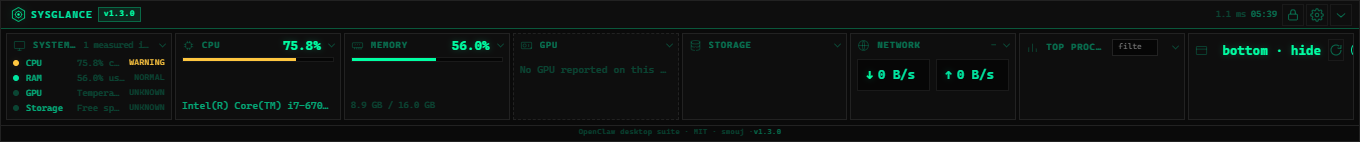
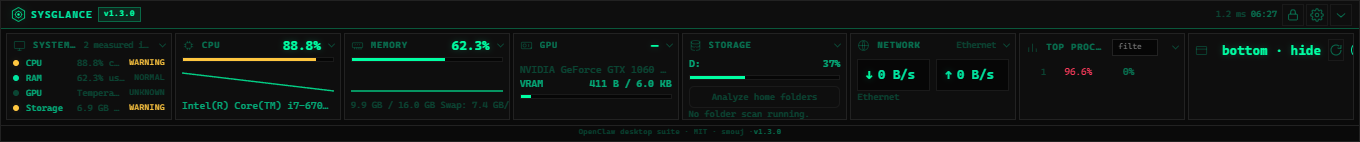
feat: add on-demand network and storage diagnostics

diff --git a/src/metrics.js b/src/metrics.js
@@ -25,6 +25,7 @@
 // ═══════════════════════════════════════════════════════
 
 const os = require('os');
+const dns = require('node:dns');
 const fs = require('fs');
 const path = require('path');
 const si = require('systeminformation');
@@ -39,6 +40,8 @@ let staticCache = null;
 let staticPromise = null;
 let inspectorCache = null;
 let inspectorPromise = null;
+let networkDetailsCache = null;
+let networkDetailsPromise = null;
 
 async function safe(fn, fallback) {
   try {
@@ -177,6 +180,32 @@ async function getInspector(force) {
     throw err;
   }
   return inspectorCache;
+}
+
+/** Adapter identity/routing details are expensive and change rarely. */
+async function getNetworkDetails(force) {
+  if (force) { networkDetailsCache = null; networkDetailsPromise = null; }
+  if (networkDetailsCache && !force) return networkDetailsCache;
+  if (!networkDetailsPromise) {
+    networkDetailsPromise = Promise.all([
+      safe(() => si.networkInterfaces(), []),
+      safe(() => si.networkGatewayDefault(), null),
+      Promise.resolve(dns.getServers())
+    ]).then(([interfaces, gateway, servers]) => {
+      const list = Array.isArray(interfaces) ? interfaces : [];
+      const active = list.find((item) => item.default) || list[0] || {};
+      return {
+        adapter: active.ifaceName || active.iface || null,
+        ip4: active.ip4 || null,
+        gateway: gateway || null,
+        dns: Array.isArray(servers) ? servers : [],
+        linkSpeed: Number.isFinite(active.speed) ? active.speed : null,
+        at: Date.now()
+      };
+    });
+  }
+  try { networkDetailsCache = await networkDetailsPromise; return networkDetailsCache; }
+  catch (err) { networkDetailsPromise = null; throw err; }
 }
 
 // ── fast tier (no child processes) ──────────────────────
@@ -330,6 +359,56 @@ function listFolders() {
   return { home, folders: out };
 }
 
+/**
+ * Explicit, bounded folder-size analysis. It is never part of collectSlow:
+ * callers opt in, the scan is capped, and symlinks are not followed.
+ */
+async function analyzeFolder(root, options) {
+  if (typeof root !== 'string' || !path.isAbsolute(root)) return { ok: false, error: 'folder path must be absolute' };
+  try {
+    const rootStat = await fs.promises.stat(root);
+    if (!rootStat.isDirectory()) return { ok: false, error: 'not a directory' };
+  } catch (err) { return { ok: false, error: 'folder not found' }; }
+  const opts = options || {};
+  const maxEntries = Math.max(100, Math.min(50000, Number(opts.maxEntries) || 20000));
+  const maxDepth = Math.max(0, Math.min(3, Number(opts.maxDepth) || 2));
+  let visited = 0;
+  let truncated = false;
+  async function measure(dir, depth) {
+    let total = 0, files = 0, folders = 0;
+    let entries;
+    try { entries = await fs.promises.readdir(dir, { withFileTypes: true }); } catch (_) { return { total, files, folders }; }
+    for (const entry of entries) {
+      if (++visited > maxEntries) { truncated = true; break; }
+      if (entry.isSymbolicLink()) continue;
+      const target = path.join(dir, entry.name);
+      if (entry.isDirectory()) {
+        folders++;
+        if (depth < maxDepth) {
+          const child = await measure(target, depth + 1);
+          total += child.total; files += child.files; folders += child.folders;
+        }
+      } else if (entry.isFile()) {
+        try { total += (await fs.promises.stat(target)).size; } catch (_) {}
+        files++;
+      }
+    }
+    return { total, files, folders };
+  }
+  const started = Date.now();
+  let top;
+  try { top = await fs.promises.readdir(root, { withFileTypes: true }); } catch (err) { return { ok: false, error: err.message }; }
+  const results = [];
+  for (const entry of top) {
+    if (visited >= maxEntries) { truncated = true; break; }
+    if (!entry.isDirectory() || entry.isSymbolicLink()) continue;
+    const child = await measure(path.join(root, entry.name), 1);
+    results.push({ name: entry.name, size: child.total, files: child.files, folders: child.folders });
+  }
+  results.sort((a, b) => b.size - a.size);
+  return { ok: true, root, entries: results.slice(0, 12), truncated, visited, elapsedMs: Date.now() - started };
+}
+
 const want = (sections, key) => !sections || sections[key] !== false;
 
 /**
@@ -471,11 +550,13 @@ function reset() {
   meminfoWarned = false;
   inspectorCache = null;
   inspectorPromise = null;
+  networkDetailsCache = null;
+  networkDetailsPromise = null;
   networkSession = { iface: null, lastAt: 0, lastRxBytes: null, lastTxBytes: null, downloaded: 0, uploaded: 0, peakRx: 0, peakTx: 0 };
 }
 
 module.exports = {
-  collectFast, collectSlow, inspectProcess, getStatic, getInspector, reset,
+  collectFast, collectSlow, analyzeFolder, inspectProcess, getStatic, getInspector, getNetworkDetails, reset,
   info: {
     fastSource: 'node:os' + (IS_LINUX ? ' + /proc/meminfo' : ''),
     slowSource: 'systeminformation',

diff --git a/src/renderer.js b/src/renderer.js
@@ -29,8 +29,8 @@
     fsHome: $('fs-home'), fsFolders: $('fs-folders'), secFs: $('sec-filesystem'),
     secHealth: $('sec-health'), healthSummary: $('health-summary'), healthList: $('health-list'),
     secGpu: $('sec-gpu'),
-    diskList: $('disk-list'), diskActivity: $('disk-activity'), diskActivityValue: $('disk-activity-value'),
-    netIface: $('net-iface'), netRx: $('net-rx'), netTx: $('net-tx'), netPeak: $('net-peak'), netSession: $('net-session'),
+    diskList: $('disk-list'), diskActivity: $('disk-activity'), diskActivityValue: $('disk-activity-value'), storageAnalyze: $('storage-analyze'), storageAnalysis: $('storage-analysis'),
+    netIface: $('net-iface'), netRx: $('net-rx'), netTx: $('net-tx'), netPeak: $('net-peak'), netSession: $('net-session'), netDetails: $('net-details'),
     procList: $('proc-list'), processStatus: $('process-status'), processFilter: $('process-filter'),
     batPct: $('bat-pct'), batBar: $('bat-bar'), batStatus: $('bat-status'), secBattery: $('sec-battery'),
     osDistro: $('os-distro'), osUptime: $('os-uptime'),
@@ -58,6 +58,7 @@
   var positionLocked = true;
   var currentConfig = {};
   var inspectorLoaded = false;
+  var networkDetailsLoaded = false;
   var lastProcessData = [];
 
   var SECTION_IDS = ['cpu', 'memory', 'gpu', 'filesystem', 'disks', 'network', 'processes', 'battery'];
@@ -359,6 +360,15 @@
     }).catch(function (err) { diagnosticsStatus(err.message || 'Could not open logs', true); });
   });
   if (dom.inspectorRefresh) dom.inspectorRefresh.addEventListener('click', refreshInspector);
+  if (dom.storageAnalyze && api.storage) dom.storageAnalyze.addEventListener('click', function () {
+    dom.storageAnalyze.disabled = true;
+    setText(dom.storageAnalysis, 'Scanning home folders on request…');
+    api.storage.analyzeHome().then(function (res) {
+      if (!res || !res.ok) { setText(dom.storageAnalysis, (res && res.error) || 'Folder analysis unavailable'); return; }
+      var details = (res.entries || []).slice(0, 5).map(function (item) { return item.name + ' ' + fmtBytes(item.size); }).join(' · ');
+      setText(dom.storageAnalysis, details || ('No subfolders found' + (res.truncated ? ' · scan capped' : '')));
+    }).catch(function (err) { setText(dom.storageAnalysis, err.message || 'Folder analysis unavailable'); }).finally(function () { dom.storageAnalyze.disabled = false; });
+  });
 
   // ── command palette ──────────────────────────────────
   var PALETTE_COMMANDS = [
@@ -754,6 +764,16 @@
       setText(dom.netTx, fmtSpeed(data.network.tx_sec));
       setText(dom.netPeak, 'Peak ' + fmtSpeed(Math.max(data.network.peakRx || 0, data.network.peakTx || 0)));
       setText(dom.netSession, 'Session ↓' + fmtBytes(data.network.sessionDownloaded || 0) + ' ↑' + fmtBytes(data.network.sessionUploaded || 0));
+      var networkDetails = [data.network.adapter || data.network.iface || null, data.network.ip4 ? 'IPv4 ' + data.network.ip4 : null, data.network.gateway ? 'GW ' + data.network.gateway : null, Array.isArray(data.network.dns) && data.network.dns.length ? 'DNS ' + data.network.dns.join(', ') : null, data.network.linkSpeed ? Math.round(data.network.linkSpeed) + ' Mbps' : null].filter(Boolean).join(' · ');
+      setText(dom.netDetails, networkDetails || 'Adapter details unavailable');
+      if (!networkDetailsLoaded && api.network && api.network.inspect) {
+        networkDetailsLoaded = true;
+        api.network.inspect(false).then(function (details) {
+          if (!details || details.ok === false) { networkDetailsLoaded = false; return; }
+          var detailText = [details.adapter, details.ip4 ? 'IPv4 ' + details.ip4 : null, details.gateway ? 'GW ' + details.gateway : null, Array.isArray(details.dns) && details.dns.length ? 'DNS ' + details.dns.join(', ') : null, details.linkSpeed ? Math.round(details.linkSpeed) + ' Mbps' : null].filter(Boolean).join(' · ');
+          setText(dom.netDetails, detailText || 'Adapter details unavailable');
+        }).catch(function () { networkDetailsLoaded = false; });
+      }
     }
 
     // Processes

diff --git a/scripts/verify-metrics.js b/scripts/verify-metrics.js
@@ -2,6 +2,9 @@
 'use strict';
 
 const metrics = require('../src/metrics');
+const fs = require('fs');
+const os = require('os');
+const path = require('path');
 
 let passed = 0, failed = 0;
 function check(label, condition, detail) {
@@ -18,11 +21,20 @@ function check(label, condition, detail) {
   check('fast tier returns bounded CPU and memory values', fast.cpu.load >= 0 && fast.cpu.load <= 100 && fast.memory.percentage >= 0 && fast.memory.percentage <= 100);
   const slow = await metrics.collectSlow({ sections: { gpu: false, battery: false, cpu: false, filesystem: false, processes: false, network: true, disks: true } });
   check('slow tier exposes network session fields', slow.network && Number.isFinite(slow.network.sessionDownloaded) && Number.isFinite(slow.network.peakRx));
+  const networkDetails = await metrics.getNetworkDetails(true);
+  check('network adapter diagnostics are on-demand, not in the slow loop', networkDetails && Object.prototype.hasOwnProperty.call(networkDetails, 'ip4') && Object.prototype.hasOwnProperty.call(networkDetails, 'gateway') && Array.isArray(networkDetails.dns) && Object.prototype.hasOwnProperty.call(networkDetails, 'linkSpeed') && !slow.calls.includes('networkGatewayDefault'));
   check('disk I/O is nullable rather than fabricated', slow.diskIO === null || (typeof slow.diskIO === 'object' && Object.prototype.hasOwnProperty.call(slow.diskIO, 'readBytesSec')));
   const inspector = await metrics.getInspector();
   const serialized = JSON.stringify(inspector).toLowerCase();
   check('inspector includes hardware families', inspector.cpu && inspector.os && inspector.system && inspector.bios && inspector.baseboard && inspector.graphics && Array.isArray(inspector.storage) && Object.prototype.hasOwnProperty.call(inspector, 'battery'));
   check('inspector excludes MAC addresses, IPs and serial numbers', !serialized.includes('"mac"') && !serialized.includes('"ip4"') && !serialized.includes('serial'));
+  const scratch = fs.mkdtempSync(path.join(os.tmpdir(), 'sysglance-metrics-'));
+  try {
+    fs.mkdirSync(path.join(scratch, 'Documents'));
+    fs.writeFileSync(path.join(scratch, 'Documents', 'note.txt'), 'bounded scan');
+    const analysis = await metrics.analyzeFolder(scratch, { maxDepth: 2, maxEntries: 100 });
+    check('folder analysis is opt-in, bounded and returns sizes', analysis.ok && analysis.entries && analysis.entries[0] && analysis.entries[0].name === 'Documents' && analysis.entries[0].size > 0 && analysis.visited <= 100);
+  } finally { try { fs.rmSync(scratch, { recursive: true, force: true }); } catch (_) {} }
   console.log('\n' + passed + ' passed, ' + failed + ' failed');
   process.exit(failed ? 1 : 0);
 })().catch((err) => { console.error(err); process.exit(1); });

diff --git a/scripts/verify-actions.js b/scripts/verify-actions.js
@@ -18,6 +18,7 @@ const config = fs.readFileSync(path.join(root, 'src', 'config.js'), 'utf8');
 const preload = fs.readFileSync(path.join(root, 'src', 'preload.js'), 'utf8');
 const html = fs.readFileSync(path.join(root, 'src', 'index.html'), 'utf8');
 const renderer = fs.readFileSync(path.join(root, 'src', 'renderer.js'), 'utf8');
+const metricsSource = fs.readFileSync(path.join(root, 'src', 'metrics.js'), 'utf8');
 
 check('profile apply has an explicit undo path', main.includes("ipcMain.handle('profiles:undo'") && main.includes('profileUndo = null'));
 check('diagnostics copy/export/open-logs are explicit IPC handlers', main.includes("ipcMain.handle('diagnostics:copy'") && main.includes("ipcMain.handle('diagnostics:export'") && main.includes("ipcMain.handle('diagnostics:openLogs'") && preload.includes('openLogs'));
@@ -31,6 +32,8 @@ check('control actions are allow-listed and argument-safe', main.includes("ms-se
 check('processes expose local filter and copy actions', html.includes('id="process-filter"') && renderer.includes('data-action="path"') && renderer.includes('PID copied'));
 check('shell mutations expose a journal-backed undo channel', shellIpc.includes("ipcMain.handle('shell:undo'") && preload.includes("undo: 'shell:undo'") && shellIpc.includes('restoreShellState'));
 check('profile shell apply is explicit and transactional', main.includes("ipcMain.handle('profiles:applyShell'") && main.includes('showMessageBox') && shellIpc.includes('applyProfileShell') && shellIpc.includes('runShellTransaction'));
+check('folder analysis is explicit and bounded', main.includes("ipcMain.handle('storage:analyzeHome'") && html.includes('id="storage-analyze"') && metricsSource.includes('maxEntries') && metricsSource.includes('isSymbolicLink'));
+check('network identity is an explicit on-demand bridge', main.includes("ipcMain.handle('network:inspect'") && preload.includes('network: {') && metricsSource.includes('getNetworkDetails'));
 
 console.log('\n' + passed + ' passed, ' + failed + ' failed');
 process.exit(failed ? 1 : 0);

diff --git a/src/main.js b/src/main.js
@@ -675,7 +675,7 @@ function composePayload() {
     gpu: slow ? slow.gpu : null,
     disks: slow && sections.disks !== false ? slow.disks : [],
     diskIO: slow && sections.disks !== false ? slow.diskIO : null,
-    network: slow ? slow.network : { iface: '—', rx_sec: 0, tx_sec: 0 },
+    network: slow ? slow.network : { iface: '—', rx_sec: 0, tx_sec: 0, adapter: null, ip4: null, gateway: null, dns: [], linkSpeed: null },
     processes: slow ? slow.processes : [],
     os: fast ? {
       distro: st ? st.os.distro : '—',
@@ -810,6 +810,8 @@ function restartDataCollection() {
 // ── IPC ─────────────────────────────────────────────────
 // Every handler validates its arguments: the renderer is untrusted code.
 ipcMain.handle('get-system-data', () => composePayload());
+ipcMain.handle('storage:analyzeHome', () => metrics.analyzeFolder(os.homedir(), { maxDepth: 2, maxEntries: 20000 }));
+ipcMain.handle('network:inspect', (_event, force) => metrics.getNetworkDetails(force === true));
 ipcMain.handle('get-app-info', () => ({
   name: 'SysGlance',
   version: APP_VERSION,

diff --git a/src/index.html b/src/index.html
@@ -251,6 +251,8 @@
       <div class="section-header"><span class="section-icon"><svg class="ic" viewBox="0 0 24 24"><use href="#i-disks"/></svg></span><span class="section-title">Storage</span></div>
       <div id="disk-list"></div>
       <div id="disk-activity" class="info-row info-row-secondary" style="display:none"><span class="info-small">I/O</span><span id="disk-activity-value" class="info-small"></span></div>
+      <button id="storage-analyze" class="storage-action">Analyze home folders</button>
+      <div id="storage-analysis" class="info-small" aria-live="polite">No folder scan running.</div>
     </div>
 
     <div class="section" id="sec-network">
@@ -260,6 +262,7 @@
         <div class="net-cell"><span class="net-arrow up" aria-hidden="true">↑</span><span id="net-tx" class="net-value">—</span><span class="net-caption">up</span></div>
       </div>
       <div class="info-row info-row-secondary"><span id="net-peak" class="info-small">Peak —</span><span id="net-session" class="info-small">Session —</span></div>
+      <div id="net-details" class="info-small">Adapter details loading…</div>
     </div>
 
     <div class="section" id="sec-processes">

diff --git a/src/styles.css b/src/styles.css
@@ -221,6 +221,9 @@ body.unlocked .ic-unlocked{display:block}
 .info-row-secondary{margin-top:3px}
 .info-subtitle{font-size:10px;color:var(--fg-2);white-space:nowrap;overflow:hidden;text-overflow:ellipsis;min-width:0}
 .info-small{font-size:9px;color:var(--fg-4);font-variant-numeric:tabular-nums;white-space:nowrap}
+.storage-action{margin-top:6px;padding:4px 7px;border:1px solid var(--line);border-radius:5px;background:var(--panel-2);color:var(--fg-4);font:inherit;font-size:9px;cursor:pointer}
+.storage-action:hover{border-color:var(--accent-line);color:var(--accent)}
+.storage-action:disabled{opacity:.55;cursor:wait}
 .info-badge{
   font-size:8.5px;font-weight:650;padding:1px 5px;border-radius:99px;
   background:var(--accent-soft);border:1px solid var(--accent-line);color:var(--accent);

diff --git a/src/preload.js b/src/preload.js
@@ -106,6 +106,14 @@ contextBridge.exposeInMainWorld('sysglance', {
     endTask: (pid) => ipcRenderer.invoke('process:endTask', pid)
   },
 
+  storage: {
+    analyzeHome: () => ipcRenderer.invoke('storage:analyzeHome')
+  },
+
+  network: {
+    inspect: (force) => ipcRenderer.invoke('network:inspect', force === true)
+  },
+
   diagnostics: {
     inspect: (force) => ipcRenderer.invoke('diagnostics:inspect', force === true),
     copy: () => ipcRenderer.invoke('diagnostics:copy'),

diff --git a/docs/COMMERCIAL_BASELINE.md b/docs/COMMERCIAL_BASELINE.md
@@ -41,7 +41,7 @@ This is an evidence-based baseline. A feature is listed as implemented only when
 ## Incomplete or not yet evidenced
 
 - Profiles now support local save/apply/duplicate/rename/delete/import/export, retain configurable hotkeys, and expose a separate confirmed shell-apply transaction with rollback. Folder-icon customizations are still outside the profile schema.
-- The inspector, sanitized export and local Open logs action are implemented, but user-triggered folder-size analysis, gateway/DNS details and a full support bundle are not.
+- The inspector, sanitized export, local Open logs action, live adapter details and on-demand folder analysis are implemented; a full support bundle is not.
 - Disk-I/O/temperature fields remain provider-dependent and may be unavailable; the UI preserves null rather than fabricating values.
 - Direct shell changes and profile shell application use the bounded undo journal; folder customization rollback now restores exact `desktop.ini` bytes, while profile folder icons are not yet included.
 - Windows 10/11, DPI matrix, sleep/resume, Explorer restart, GPU reset and monitor disconnect/reconnect remain NOT VERIFIED on a hardware test matrix; the runtime now has display topology and hot-plug handling.
@@ -59,5 +59,5 @@ This is an evidence-based baseline. A feature is listed as implemented only when
 
 1. Verify the Windows 10/11, DPI, sleep/resume, Explorer restart, GPU reset and monitor hot-plug matrix.
 2. Add profile folder-icon snapshots and complete their transactional restoration.
-3. Add a full support bundle plus gateway/DNS and storage diagnostics.
+3. Add a full support bundle and support-bundle retention/redaction review.
 4. Close code-signing and secure-update gaps before release-candidate distribution.

diff --git a/docs/PERFORMANCE_BASELINE.md b/docs/PERFORMANCE_BASELINE.md
@@ -24,6 +24,13 @@ The benchmark's systeminformation calls are intentionally measured in isolation 
 
 Follow-up after the profile/process/display integration (`npm run bench -- --iterations=5`) measured a 0.79 ms median fast cycle, 3,204.02 ms median slow cycle, 3.01× lower compute estimate and 2.21× fewer child processes versus the legacy path in that run. These are host-specific measurements, not release guarantees.
 
+After adding adapter diagnostics, the first `--new --iterations=3` sample
+measured a 0.73 ms median fast tier, 3,988.13 ms median slow tier and 25.67
+child processes per slow cycle. Gateway/DNS lookup was then moved out of the
+slow loop into a cached on-demand bridge. The follow-up measured 0.72 ms fast,
+3,330.59 ms slow and 19.33 child processes per slow cycle. This is an explicit
+guard against silently turning network identity into a 7-second polling cost.
+
 ## Runtime smoke measurement
 
 One normal launch on the same Windows 10 host (20 September 2026, current
@@ -37,8 +44,8 @@ the app is idle between polls. A second shorter sample measured 1,512 ms to
 window and 396.9 MB RSS; the spread shows why these are baselines, not release
 guarantees. The process tree was closed after each run.
 
-The final Windows installer from this audit is **111,912,928 bytes** with
[1 lines of base64/hex data omitted]
+The final Windows installer from this audit is **111,914,275 bytes** with
[1 lines of base64/hex data omitted]
 It was
 built in `dist-verify` with electron-builder 26.15.3 and includes the packaged
 native helper.

diff --git a/CHANGELOG.md b/CHANGELOG.md
@@ -19,6 +19,7 @@ the project uses [Semantic Versioning](https://semver.org/spec/v2.0.0.html).
 - Expanded the internal command palette with allow-listed Windows control actions for Settings, network, display, apps, Task Manager and PC lock.
 - Added an explicit Open logs action and included a bounded recent-log tail in exported diagnostics.
 - Added a confirmed, rollback-capable profile shell transaction for taskbar, theme, accent and wallpaper; direct folder undo now restores exact `desktop.ini` bytes.
+- Added on-demand network identity (IPv4, gateway, DNS and link speed) and bounded home-folder size analysis; expensive network routing queries stay out of the regular slow loop.
 
 - **System Status** with objective health rows, bounded local history for key metrics and CPU/RAM sparklines.
 - **Local Alert Engine** with threshold, duration, cooldown and recovery state transitions.

diff --git a/docs/METRIC_ENGINE.md b/docs/METRIC_ENGINE.md
@@ -5,7 +5,8 @@ The metric engine has three cost tiers.
 | Tier | Source | Default cadence | Examples |
 |---|---|---:|---|
 | Fast | Node `os` and small in-process reads | 1.5 s | CPU deltas, memory, uptime, load average |
-| Hardware/slow | `systeminformation` | 7 s | GPU, temperatures, disks, network, processes, battery |
+| Hardware/slow | `systeminformation` | 7 s | GPU, temperatures, disks, network counters, processes, battery |
+| On-demand network | `systeminformation` + local DNS lookup | user-triggered/cache | Adapter, IPv4, gateway, DNS and link speed |
 | Static | cached provider calls | once/session | CPU model, OS identity, core count |
 
 Every result carries an `at` timestamp. The composed payload carries the measured cycle costs, provider calls and backpressure counters. A slow provider failure degrades only its own fields.
